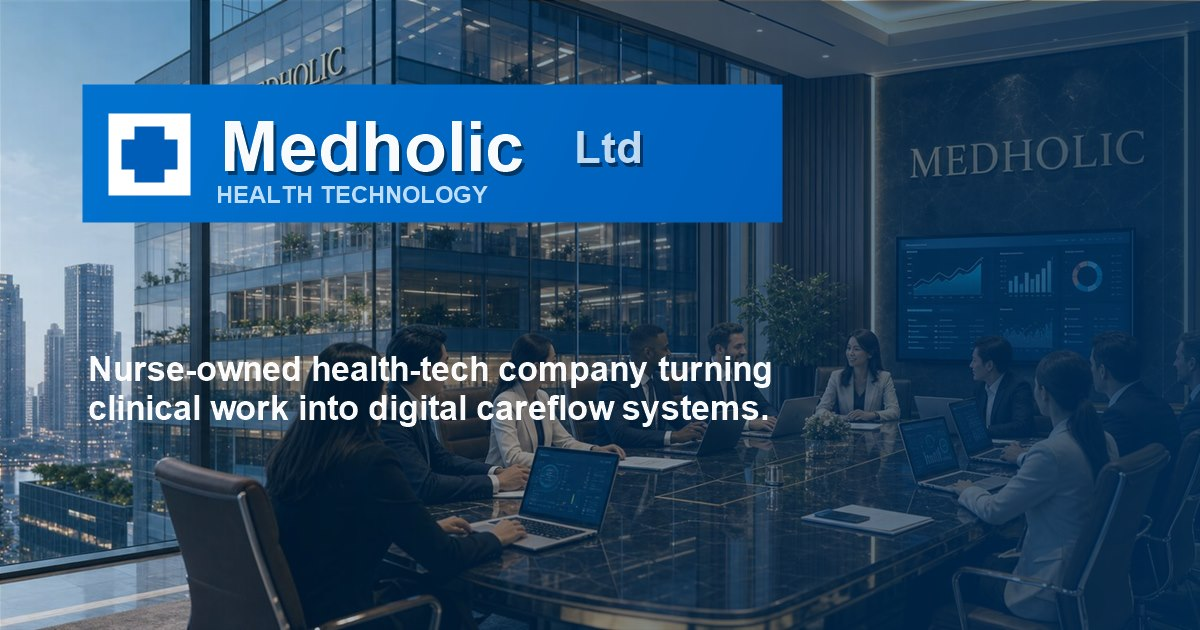
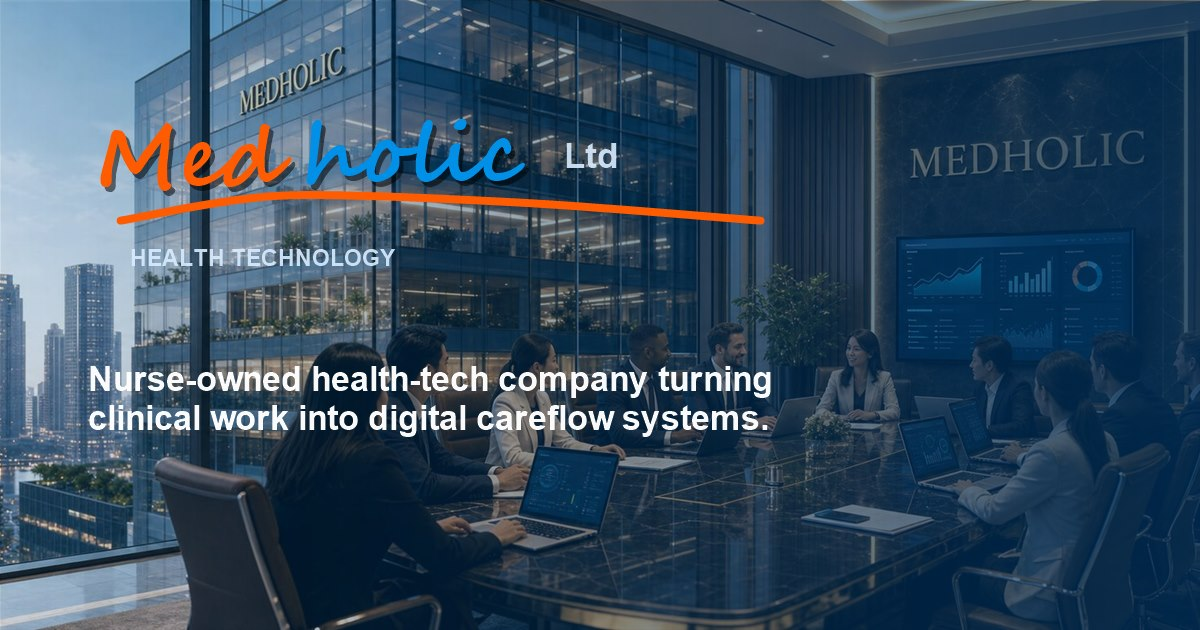
Apply Medholic and Spotit brand patterns

Changed region(s): [[0.0617, 0.1206, 0.6783, 0.3619], [0.0617, 0.5429, 0.6475, 0.6937], [0.0925, 0.3921, 0.3392, 0.4222]]

diff --git a/marketing/marketing.css b/marketing/marketing.css
@@ -3385,6 +3385,67 @@ h1 {
   background: linear-gradient(135deg, #0072ce, #005eb8);
 }
 
+/* Medholic pattern accents: orange/red Med + blue holic */
+.lux-wordmark img {
+  width: clamp(176px, 20vw, 248px);
+}
+
+.lux-hero-logo {
+  width: clamp(270px, 34vw, 440px);
+}
+
+.lux-kicker,
+.lux-grid span,
+.lux-project-placeholder span,
+.lux-project-card summary span,
+.lux-video-topbar span,
+.lux-storyboard-real span {
+  color: #ff5b00;
+}
+
+.lux-hero .lux-kicker {
+  color: #ffffff;
+}
+
+.lux-primary,
+.lux-contact-reveal summary,
+.lux-contact-reveal a {
+  background: linear-gradient(135deg, #ff9b14, #ff5b00 48%, #e01818);
+  border-color: rgba(255, 91, 0, 0.72);
+  box-shadow: 0 22px 48px rgba(255, 91, 0, 0.2);
+}
+
+.lux-secondary {
+  background: rgba(0, 94, 184, 0.26);
+}
+
+.lux-location-panel,
+.lux-grid article,
+.lux-projects-heading,
+.lux-project-feature,
+.lux-project-placeholder,
+.lux-statement,
+.lux-contact {
+  background:
+    radial-gradient(circle at 94% 0%, rgba(0, 114, 206, 0.1), transparent 30%),
+    radial-gradient(circle at 0% 100%, rgba(255, 91, 0, 0.08), transparent 32%),
+    linear-gradient(135deg, rgba(255, 255, 255, 0.98), rgba(232, 242, 251, 0.9)),
+    #ffffff;
+}
+
+.lux-about-pills span,
+.lux-tags span {
+  color: #005eb8;
+  border-color: rgba(255, 91, 0, 0.2);
+  background: linear-gradient(135deg, #ffffff, #e8f2fb);
+}
+
+.lux-spotit-logo {
+  background: #ffffff;
+  border: 1px solid rgba(0, 94, 184, 0.12);
+  box-shadow: 0 18px 42px rgba(0, 94, 184, 0.12);
+}
+
 @media (max-width: 880px) {
   .lux-nav {
     min-height: auto;
